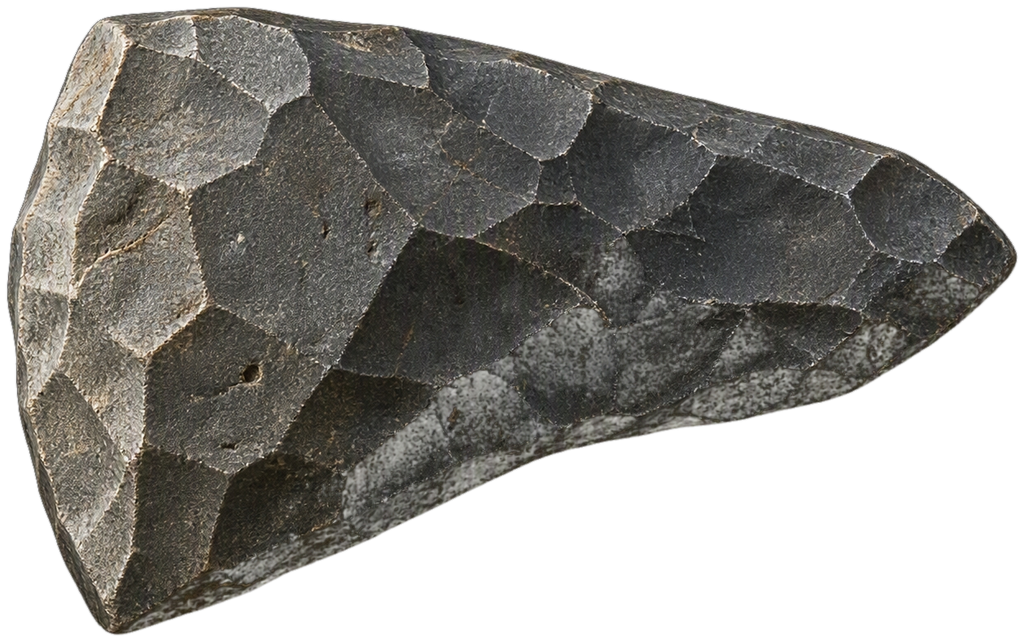
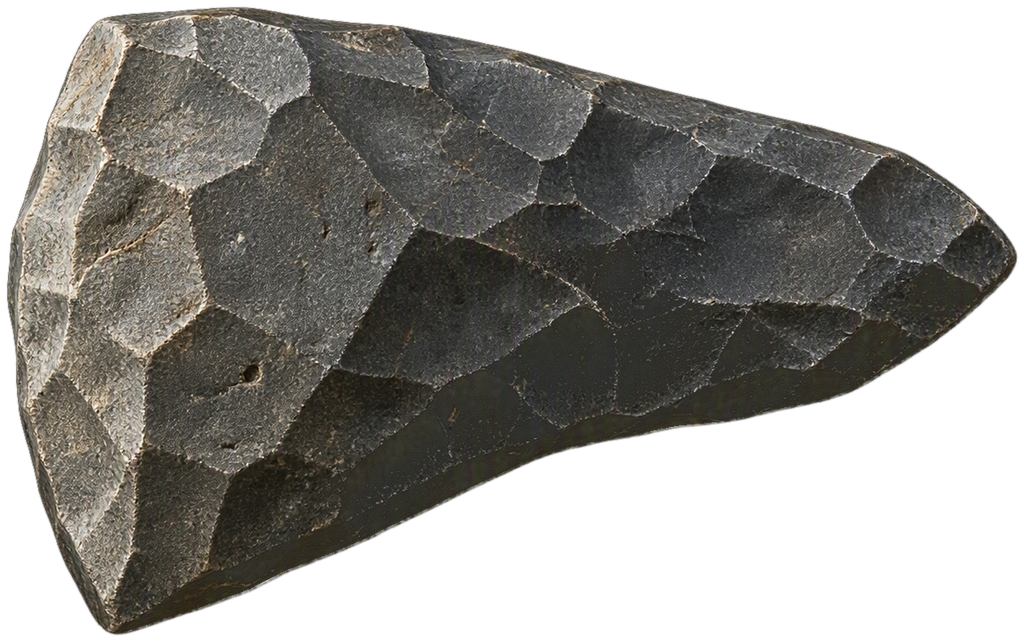
Hache : images pleines, la hache reste montee jusqu'a la fumee
Relecture :
- L'interieur de la nouvelle pierre coupante etait en partie
  transparent (le detourage avait pris ses facettes sombres pour du
  fond) : il est maintenant entierement opaque, comme celui de la hache ;
  seul un mince liseret du bord reste adouci.
- A la reussite, les batons reprenaient leur biais et la pierre sa
  taille avant que la fumee ne les cache : la hache se demontait sous les
  yeux du joueur. Elle reste montee, corde comprise, jusqu'a ce que la
  fumee la cache ; annule, tout redevient normal comme avant.

Claude-Session: https://claude.ai/code/session_01Fr6Pc8gacEksqD6XxyuikW

Changed region(s): [[0.125, 0.3738, 0.9062, 0.9969], [0.875, 0.405, 0.9688, 0.4984]]

diff --git a/src/widgets/minijeux.py b/src/widgets/minijeux.py
@@ -1542,16 +1542,21 @@ class MiniJeuHache(object):
         asm = self.asm
         if asm.sur_pas == self._pas:
             asm.sur_pas = None
-        if asm.dessin_dessus == self._dessine:
-            asm.dessin_dessus = None
         if asm.dessin_jeu == self._dessine_places:
             asm.dessin_jeu = None
         asm.aimant_permis = True
         asm.emplacements = []
         if self.fantome is not None:
             self.fantome.arrete()
+        # REUSSI : la hache reste telle quelle (batons tournes, pierre a sa
+        # taille, corde) jusqu'a ce que la fumee de la reussite la cache --
+        # defaite tout de suite, elle se demontait sous les yeux du joueur
+        # (voir _dessine et reussite.py). ANNULE : tout redevient normal.
+        cles = ("verrou",) if self.fini else ("verrou", "angle", "echelle")
+        if not self.fini and asm.dessin_dessus == self._dessine:
+            asm.dessin_dessus = None
         for o in asm.objets:
-            for cle in ("verrou", "angle", "echelle"):
+            for cle in cles:
                 o.pop(cle, None)
         asm._redessine()
 
@@ -1650,6 +1655,8 @@ class MiniJeuHache(object):
     # -- le dessin de la corde, par-dessus les objets ---------------------- #
     def _dessine(self):
         asm = self.asm
+        if self.pierre is not None and self.pierre.get("cache"):
+            return                  # la hache a disparu dans la fumee
         t = self._taille()
 
         def ici(x, y):
